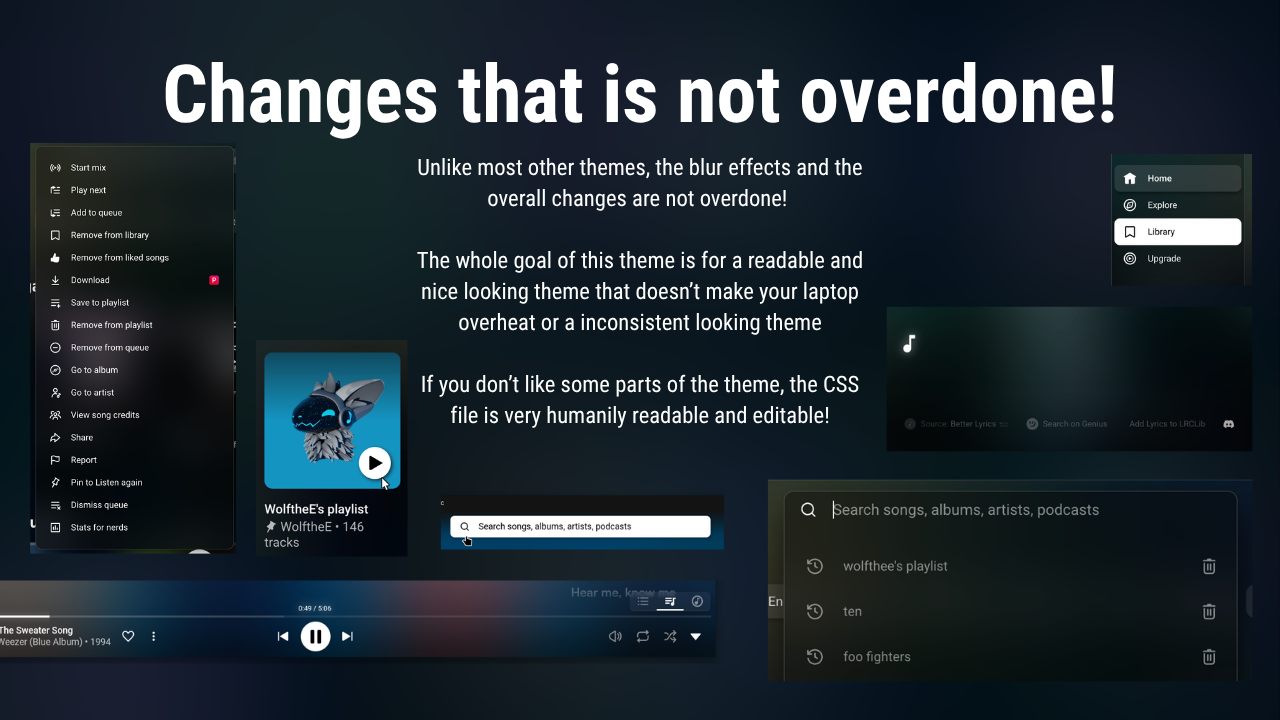
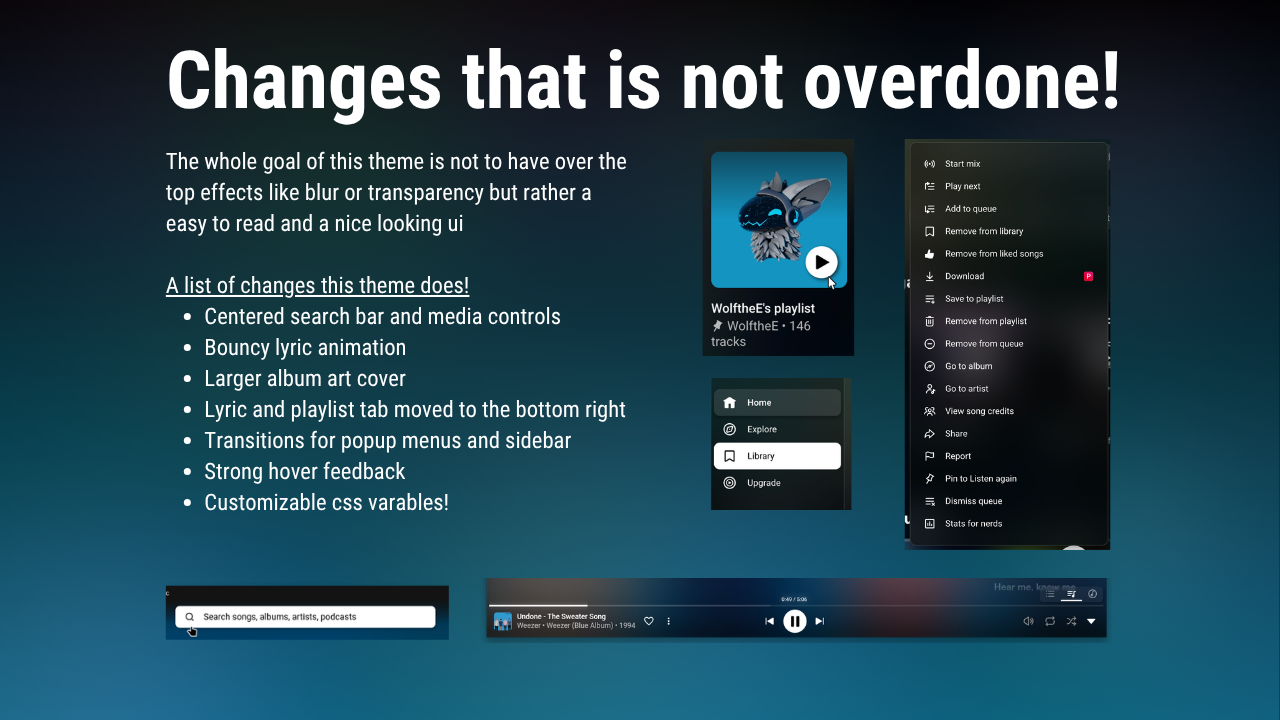
Update 3.1.0

diff --git a/style.css b/style.css
@@ -20,7 +20,7 @@ blyrics-long-word-threshold = 1000;
 :root {  
   
   /*Set this to your titlebar color*/ 
-  --titlebar-color: rgba(19,19,19,1);
+  --titlebar-color: rgb(0, 0, 0);
 
   /*The glow effect used, change this or remove it if you like! Also the main button color*/ 
   --glow: rgba(255,255,255,0.35); 
@@ -33,10 +33,11 @@ blyrics-long-word-threshold = 1000;
   --alt-color: #f03;
 
 
-  --popup-background: rgba(5,5,5,0.4);
+  --popup-background: rgba(5,5,5,0.6);
   --popup-border: rgba(255,255,255,0.15);
 
   --background-blur: blur(32px);
+  --searchbar-background-blur: blur(8px);
 
 
 
@@ -102,11 +103,66 @@ blyrics-long-word-threshold = 1000;
     filter: drop-shadow(0 0 1rem var(--blyrics-glow-color));
   }
   67% {
-    filter: drop-shadow(0 0 0.1rem var(--blyrics-glow-color));
+    filter: drop-shadow(0 0 0.2rem var(--blyrics-glow-color));
   }
   to {
     filter: drop-shadow(0 0 0rem var(--blyrics-glow-color));
   }
+}
+
+/* music note 
+.blyrics--instrumental-bg, .blyrics--instrumental-fill {
+  d: path("M 5 5 A 1 1 0 0 0 15 5 A 1 1 0 0 0 5 5 Z M 20 5 A 1 1 0 0 0 30 5 A 1 1 0 0 0 20 5 M 35 5 A 1 1 0 0 0 45 5 A 1 1 0 0 0 35 5");
+}
+
+.blyrics--wave-rect {
+  d: path("M -30 11 L 14 11 A 1 1 0 0 0 14 0 L -30 0 L -30 11");
+}
+
+.blyrics--wave-path {
+  d: path("M 0 0");
+}
+
+.blyrics--instrumental.blyrics--pre-animating:not(.blyrics--animating) .blyrics--wave-clip {
+	transform: translateX(-70%);
+}
+
+.blyrics--instrumental.blyrics--animating .blyrics--wave-clip {
+	transform: translateX(125%);
+}
+
+.blyrics--paused .blyrics--wave-clip {
+	transition-duration: 100000000s !important;
+	transform: translateX(100%) !important;
+}*/
+
+.blyrics--instrumental-icon {
+  display: none;
+}
+
+.blyrics--instrumental.blyrics--line::before {
+  padding-left: 0.3em;
+  font-size: calc(var(--blyrics-font-size) - 1.5rem );
+  content: "● ● ●";
+  color: var(--blyrics-lyric-inactive-color);
+}
+
+.blyrics--instrumental.blyrics--line::after {
+  padding-left: 0.3em;
+  font-size: calc(var(--blyrics-font-size) - 1.5rem );
+  content: "● ● ●";
+  position: absolute;
+  color: var(--blyrics-lyric-active-color);
+  overflow: hidden;
+  width: 0px;
+  text-wrap: nowrap;
+  mask-image: linear-gradient(90deg, black calc( 100% - 0.2em), transparent 100%);
+  transition: width calc(var(--blyrics-duration)* 1.2) linear var(--blyrics-anim-delay);
+}
+
+.blyrics--instrumental.blyrics--line.blyrics--pre-animating.blyrics--active.blyrics--animating::after {
+  width: 4.6em;
+    filter: drop-shadow(0px 0px 4px rgba(255,255,255,0.75));
 }
 
 .blyrics--word.blyrics--animating { /* Holds the synced lyric on longer notes */
@@ -115,10 +171,23 @@ blyrics-long-word-threshold = 1000;
 }
 
 
-.blyrics-container:has(.blyrics--active):not(.blyrics-user-scrolling) > div:not(.blyrics--active):not(.blyrics--active ~ div) > span{
-  transition: color 0.5s ease-out; /* This makes played lyrics stays white */
+.blyrics-container:has(.blyrics--active):not(.blyrics-user-scrolling) > div:not(.blyrics--active):not(.blyrics--active ~ div) > span, .blyrics-container:has(.blyrics--active):not(.blyrics-user-scrolling) > div:not(.blyrics--active):not(.blyrics--active ~ div)::before{
+  transition: opacity 2s ease-out, color 0.5s ease-out; /* This makes played lyrics stays white */
   color: white !important;
 }
+
+.blyrics--instrumental.blyrics--line, .blyrics-container:has(.blyrics--active):not(.blyrics-user-scrolling) > div:not(.blyrics--active):not(.blyrics--active ~ div)::before {  /* Make the music note part hidden unless its being played */
+  opacity: 0;
+  transition: opacity 1s ease-out, transform 0.7s ease-out, color 0.5s ease-out, filter 0.3s ease-out !important; 
+}
+
+.blyrics--instrumental.blyrics--line.blyrics--pre-animating.blyrics--active.blyrics--animating {
+  opacity: 1;
+}
+
+
+
+
 .blyrics--line > span > span.blyrics-background-lyric { font-size: var(--smaller-lyrics-size); /* Edit the smaller lyrics */}
 
 .blyrics-container[data-sync="none"] > div { /* For non-synced lyrics */ color: white !important;}
@@ -329,10 +398,12 @@ ytmusic-responsive-list-item-renderer[play-button-state=paused], ytmusic-player-
 
 ytmusic-player-queue-item {border-bottom: none;} /*Removed border*/
 
-#tab-renderer { /* Fade out effect */
+#tab-renderer { /* Fade out effect also remove the scroll bar */
   padding: 16px 8px;
   mask-image: linear-gradient(180deg, transparent, #000 50px, #000 calc(100% - 50px), transparent);
   -webkit-mask-image: linear-gradient(180deg, transparent, #000 50px, #000 calc(100% - 50px), transparent);
+
+  scrollbar-color: rgba(255, 255, 255, 0.0) transparent !important;
 }
 
 
@@ -430,16 +501,17 @@ ytmusic-guide-entry-renderer[active] tp-yt-paper-item.ytmusic-guide-entry-render
 .search-container.ytmusic-search-box { /* Fixes some visual bugs with the search bar */ overflow: visible;}
 
 #layout[player-ui-state="PLAYER_PAGE_OPEN"] #nav-bar-background, #nav-bar-background.ytmusic-app-layout {
-  background-color: var(--titlebar-color) !important;
+  background: linear-gradient(var(--titlebar-color) 25%, rgba(0,0,0,0.01)) !important;
   border-bottom: none;
 }
-#nav-bar-background.ytmusic-app-layout { /* Remove duplicated background */ 
+#nav-bar-background.ytmusic-app-layout, ytmusic-app-layout[is-bauhaus-sidenav-enabled] #nav-bar-background.ytmusic-app-layout { /* Remove duplicated background */ 
   background: none;
+  border-bottom: none;
 }
 
 #layout[player-ui-state="PLAYER_PAGE_OPEN"] #nav-bar-background { /* ensure navbar stays transparent with media player open */ 
   backdrop-filter: none;
-  background-color: rgba(0,0,0,0) !important;
+  background: rgba(0,0,0,0) !important;
 }
 
 ytmusic-app-layout[is-bauhaus-sidenav-enabled] #nav-bar-divider.ytmusic-app-layout { border-top: none;}
@@ -456,6 +528,8 @@ ytmusic-nav-bar[is-bauhaus-sidenav-enabled] .center-content.ytmusic-nav-bar { /*
   width: 100vw !important;
 }
 
+
+
 ytmusic-search-box[opened]:has(ytmusic-search-suggestion) .search-box, ytmusic-search-box[opened]:has(ytmusic-responsive-list-item-renderer) .search-box, ytmusic-search-box[is-bauhaus-sidenav-enabled][opened] .search-box.ytmusic-search-box {
   border-radius: var(--radius) var(--radius) 0 0 !important;  /* Make sure search bar follows border radius */
   border: none;
@@ -465,6 +539,25 @@ ytmusic-search-box[opened]:has(ytmusic-search-suggestion) .search-box, ytmusic-s
     background-color: transparent !important;
     color: white !important;
   }
+}
+
+/* workaround to blur the searchbar */
+ytmusic-search-box[is-bauhaus-sidenav-enabled]:not([opened]):not([has-query]) .search-box.ytmusic-search-box {
+  anchor-name: --search-bar;
+}
+
+ytmusic-app::after{
+  z-index: 4 !important;
+  content: "";
+  position: fixed;  /* Add the blurring */
+  position-anchor: --search-bar;      
+  top: calc(anchor(top)) !important;              
+  left: anchor(left) !important;           
+  width: calc(anchor-size(width)) !important;    
+  height: calc(anchor-size(height)) !important;  
+  backdrop-filter: var(--searchbar-background-blur);
+  border-radius: var(--radius);
+  box-shadow: none !important;
 }
 
 
@@ -556,8 +649,6 @@ ytmusic-search-box[has-query] .search-container.ytmusic-search-box, ytmusic-sear
 }
 
 
-
-
 /* Blur background of search dropdown, thank you Zortas! */
 
 ytmusic-app-layout:not([player-ui-state="PLAYER_PAGE_OPEN"]) #nav-bar-background {
@@ -597,8 +688,8 @@ ytmusic-app-layout:has(ytmusic-search-box[opened])::after {
 
 /* =============== PlayerBar ================== */
 #player-bar-background.ytmusic-app-layout { /* Makes the PlayerBar transparent */
-  background: rgba(15, 15, 15, 0.15);
-  backdrop-filter: var(--background-blur);
+  background: linear-gradient(rgba(0,0,0,0.1), var(--titlebar-color) 80%) !important;
+  backdrop-filter: none;
 }
 ytmusic-player-bar { /* Makes it transparent when in Media View */
   background-color: transparent;

diff --git a/DESCRIPTION.md b/DESCRIPTION.md
@@ -1,6 +1,6 @@
 ## The way YouTube Music should have been
 
-## 3.0 is out - New overall look & feel
+## 3.1.0 is out - New overall look & feel!
 
 ## What this themes Adds/Changes
 - Better Scaling
@@ -18,7 +18,19 @@
 This theme works best with the album art background enabled.
 If using a laptop, disable Show stylized animations to save power.
 
-## This version changelog - ver 3.0.0
+
+## 3.1.0
+- Navbar and player bar uses a gradient background now
+- Instrumental Breaks is now like Archivetune's one
+- Added a blur background for the search bar
+- Removed the scrollbar for some places
+- Small tweaks
+
+## 3.0.1 hotfix
+- Higher blur amount for background
+- made the Unsion Panel slightly higher
+
+## 3.0.0 changelog
 - Re-designed how I wanted the UI to be done, Remove lots of blured elements and added gradients to background
 - Increased Blur radius
 - Fixed some z-index problems

diff --git a/README.md b/README.md
@@ -39,6 +39,13 @@ The way YouTube Music should have been
 This theme works best with the album art background enabled.
 If using a laptop, disable Show stylized animations to save power.
 
+## 3.1.0
+- Navbar and player bar uses a gradient background now
+- Instrumental Breaks is now like Archivetune's one
+- Added a blur background for the search bar
+- Removed the scrollbar for some places
+- Small tweaks
+
 ## 3.0.1 hotfix
 - Higher blur amount for background
 - made the Unsion Panel slightly higher
